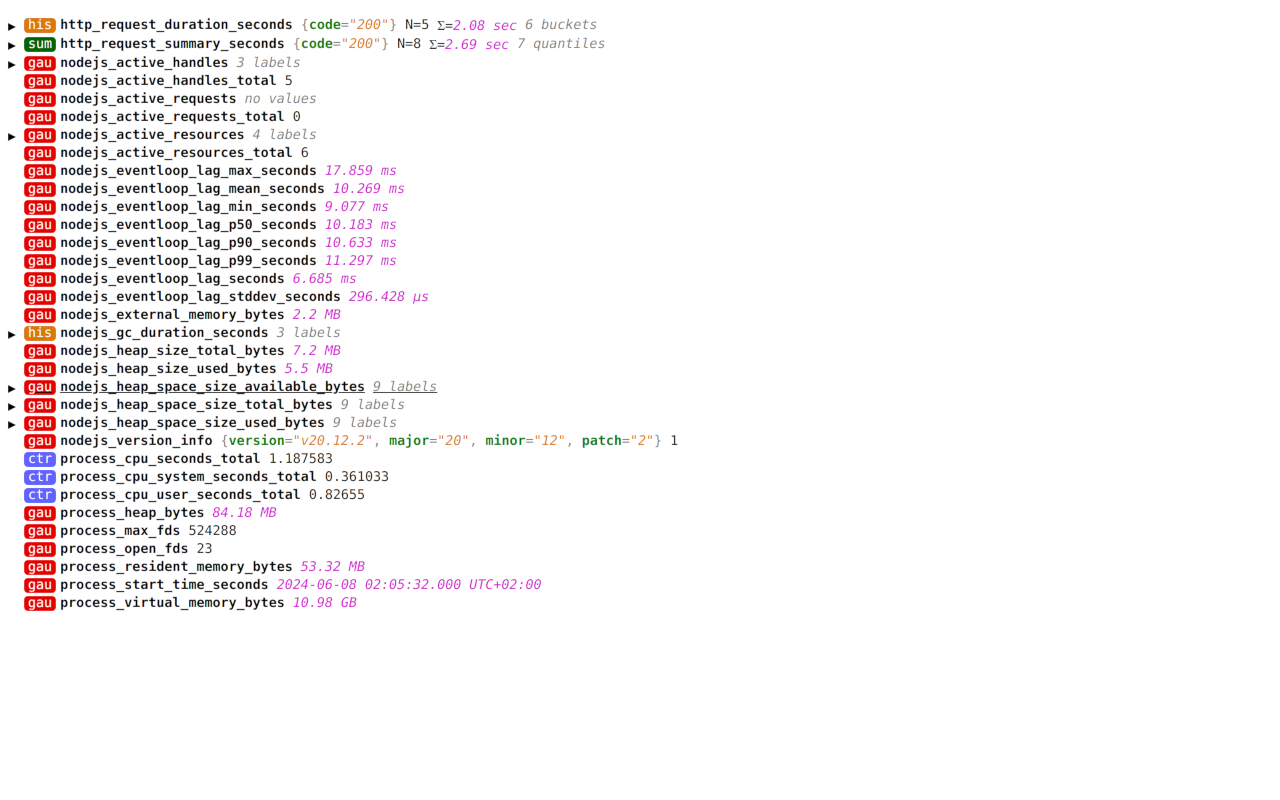
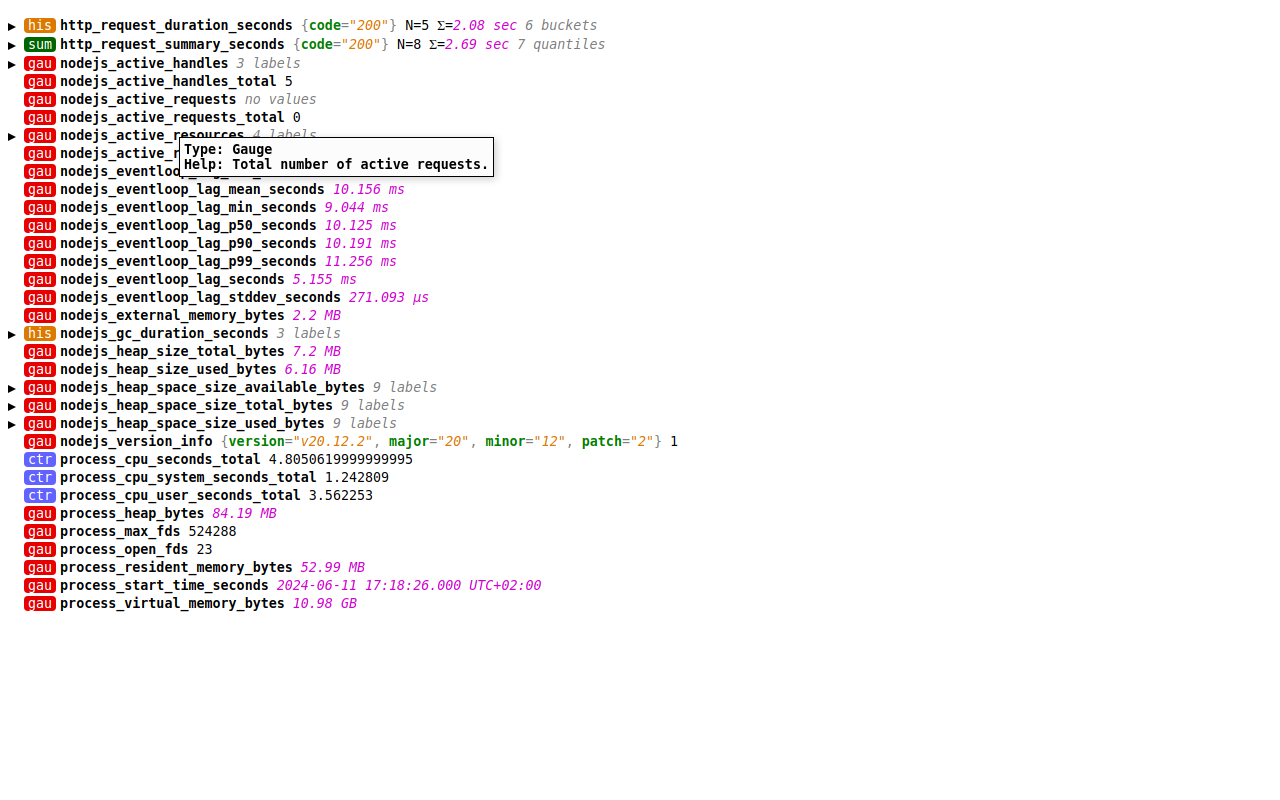
v1.1.0

Changed region(s): [[0.0, 0.0, 0.5312, 0.7812]]

diff --git a/README.md b/README.md
@@ -16,6 +16,7 @@ This is a Chrome extension that allows you to monitor your Prometheus instances 
 - Formats values in human-readable units
 - Groups metrics by labels
 - Detailed view of histograms and summaries
+- Tooltip with metric description
 
 
 ## Installation
